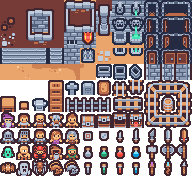
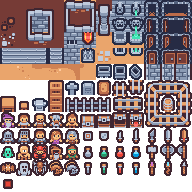
bugfixes

diff --git a/src/js/enemies/projectile.js b/src/js/enemies/projectile.js
@@ -19,7 +19,7 @@ export class Projectile extends Actor {
     }
 
     onInitialize() {
-        this.graphics.use(Resources.TilemapPacked.getSprite(1,1))
+        this.graphics.use(Resources.TilemapPacked.getSprite(0,11))
         this.pos = this.position
         let normalizedDirection = this.direction.normalize()
         this.vel = new Vector(-normalizedDirection.x * 20, -normalizedDirection.y * 20)

diff --git a/src/js/level2.js b/src/js/level2.js
@@ -138,6 +138,7 @@ export class Level2 extends Scene {
     heroWin(event) {
         if (event.other instanceof Hero) {
             this.hero.actions.clearActions()
+            this.hero.inCombatTime = -1
 
             for (const enemy of this.enemies) {
                 enemy.actions.clearActions()

diff --git a/src/js/level.js b/src/js/level.js
@@ -137,6 +137,7 @@ export class Level extends Scene {
     heroWin(event) {
         if (event.other instanceof Hero) {
             this.hero.actions.clearActions()
+            this.hero.inCombatTime = -1
 
             for (const enemy of this.enemies) {
                 enemy.actions.clearActions()

diff --git a/src/js/resources.js b/src/js/resources.js
@@ -19,7 +19,7 @@ const TilemapPacked = new ImageSource(tilemapPacked)
 const spritesheet = SpriteSheet.fromImageSource({
   image: TilemapPacked,
   grid: {
-      rows: 12,
+      rows: 13,
       columns: 11,
       spriteHeight: 16,
       spriteWidth: 16
